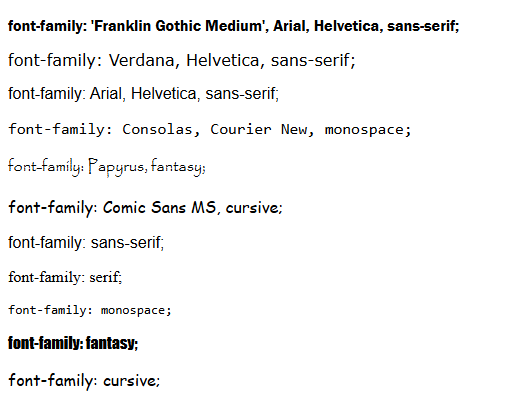
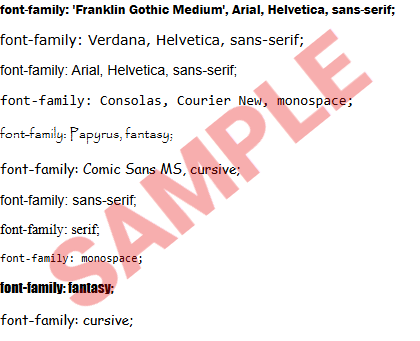
vault backup: 2025-08-04 09:09:36
Affected files:

Changed region(s): [[0.0, 0.0, 0.9595, 0.9677]]

diff --git a/examples/206-text-and-typography/generic-font-family.html b/examples/206-text-and-typography/generic-font-family.html
@@ -2,25 +2,36 @@
 <html lang="en">
 <head>
 	<title>CSS Font Family</title>
+	<style>
+		body {
+			font-size: 0.875em;
+		}
+
+		img {
+			float: left;
+			margin: 0;
+		}
+	</style>
 </head>
 <body>
+	<img src="generic-font-family.png">
 	<p
 		style="font-family: 'Franklin Gothic Medium', Arial, Helvetica, sans-serif;">
-		font-family: 'Franklin Gothic Medium', Arial, Helvetica, sans-serif;</p>
-	<p style="font-family: Verdana, Helvetica, sans-serif;">font-family: Verdana,
+		'Franklin Gothic Medium', Arial, Helvetica, sans-serif;</p>
+	<p style="font-family: Verdana, Helvetica, sans-serif;">Verdana,
 		Helvetica, sans-serif;</p>
-	<p style="font-family: Arial, Helvetica, sans-serif;">font-family: Arial,
+	<p style="font-family: Arial, Helvetica, sans-serif;">Arial,
 		Helvetica, sans-serif;</p>
-	<p style="font-family: Consolas, Courier New, monospace;">font-family:
-		Consolas, Courier New, monospace;</p>
-	<p style="font-family: Papyrus, fantasy;">font-family: Papyrus, fantasy;</p>
-	<p style="font-family: Comic Sans MS, cursive;">font-family: Comic Sans MS,
+	<p style="font-family: Consolas, Courier New, monospace;">Consolas, Courier
+		New, monospace;</p>
+	<p style="font-family: Papyrus, fantasy;">Papyrus, fantasy;</p>
+	<p style="font-family: Comic Sans MS, cursive;">Comic Sans MS,
 		cursive;</p>
-	<p style="font-family: sans-serif;">font-family: sans-serif;</p>
-	<p style="font-family: serif;">font-family: serif;</p>
-	<p style="font-family: monospace;">font-family: monospace;</p>
-	<p style="font-family: fantasy;">font-family: fantasy;</p>
-	<p style="font-family: cursive;">font-family: cursive;</p>
+	<p style="font-family: sans-serif;">sans-serif;</p>
+	<p style="font-family: serif;">serif;</p>
+	<p style="font-family: monospace;">monospace;</p>
+	<p style="font-family: fantasy;">fantasy;</p>
+	<p style="font-family: cursive;">cursive;</p>
 
 </body>
 </html>

diff --git a/206-text-and-typography.md b/206-text-and-typography.md
@@ -20,9 +20,15 @@ p {
 
 The browser's going to start at the beginning: "do I have Franklin Gothic?" If that font's available, use it, otherwise check for Arial; if Arial's not available, use Helvetica, and if that's not available either, use any generic sans-serif font.
 
-The keyword `sans-serif` there isn't a font, it's a generic font family name. CSS defines five of these: `serif`, `sans-serif`, `monospace`, `cursive`, and `fantasy` --- but it's up to the browser to decide what typeface to use for each generic family:
+The keyword `sans-serif` there isn't a font, it's a generic font family name. CSS defines five of these --- `serif`, `sans-serif`, `monospace`, `cursive`, and `fantasy` --- but it's up to the browser to decide what typeface to use for each generic family.
 
 {% example generic-font-family.html iframe_style="height: 20em;" %}
+
+This example shows a range of CSS font stacks, along with a sample image showing what they look like on my Windows 11 workstation.
+
+
+
+
 
 
 
